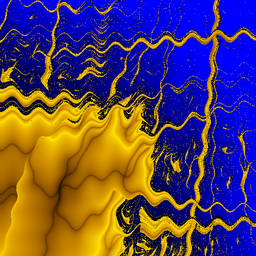
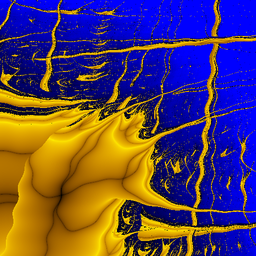
v0.6.1 small bugfix in A axis amplitude of 'wavy' fractal type. Update example images, too.

diff --git a/fractal_type.cc b/fractal_type.cc
@@ -173,12 +173,12 @@ void Zoom::per_pixel(double values[5], unsigned frame, unsigned line, unsigned c
 
 void Wavy::per_line(double values[5], unsigned frame, unsigned line) const
 {
-	values[0] = a.min + (a.max-a.min)/a.size*(line+0.5);
+
 }
 
 void Wavy::per_pixel(double values[5], unsigned frame, unsigned line, unsigned column) const
 {
-	values[0] += amp_a * sin(k_a * column - phase_a);
+	values[0] = a.min + (a.max-a.min)/a.size*(line+0.5)   + amp_a * sin(k_a * column - phase_a);
 	values[1] = b.min + (b.max-b.min)/b.size*(column+0.5) + amp_b * sin(k_b * line - phase_b);
 }
 

diff --git a/README.md b/README.md
@@ -84,7 +84,15 @@ ffmpeg -i ani-ABCD-%03d.ppm -r 25 ani.mp4
 
 `lyapunov -W 1024 -H 512 -t sphere -x 3.2 -X 3.8 -y 3.2 -Y 3.8 -z 3.1 -Z 3.8 -s ABCBBACC -o sphere.ppm`
 
-This image is a "spherical mapping" that can be used e.g. with POV-Ray to render a 3D image.
+This image is a "spherical mapping" that can be used e.g. with POV-Ray to render a 3D image, see <code>pov/</code> subdirectory.
+
+<img src="pov/sphere.jpg" width="256" height="256" />
+
+
+Animation: https://github.com/user-attachments/assets/938d0b7e-1d54-40de-93c9-f0879bf6ffdf
+
+A second animation example is in the pov/ directory.
+
 
 <br clear="all" />
 
